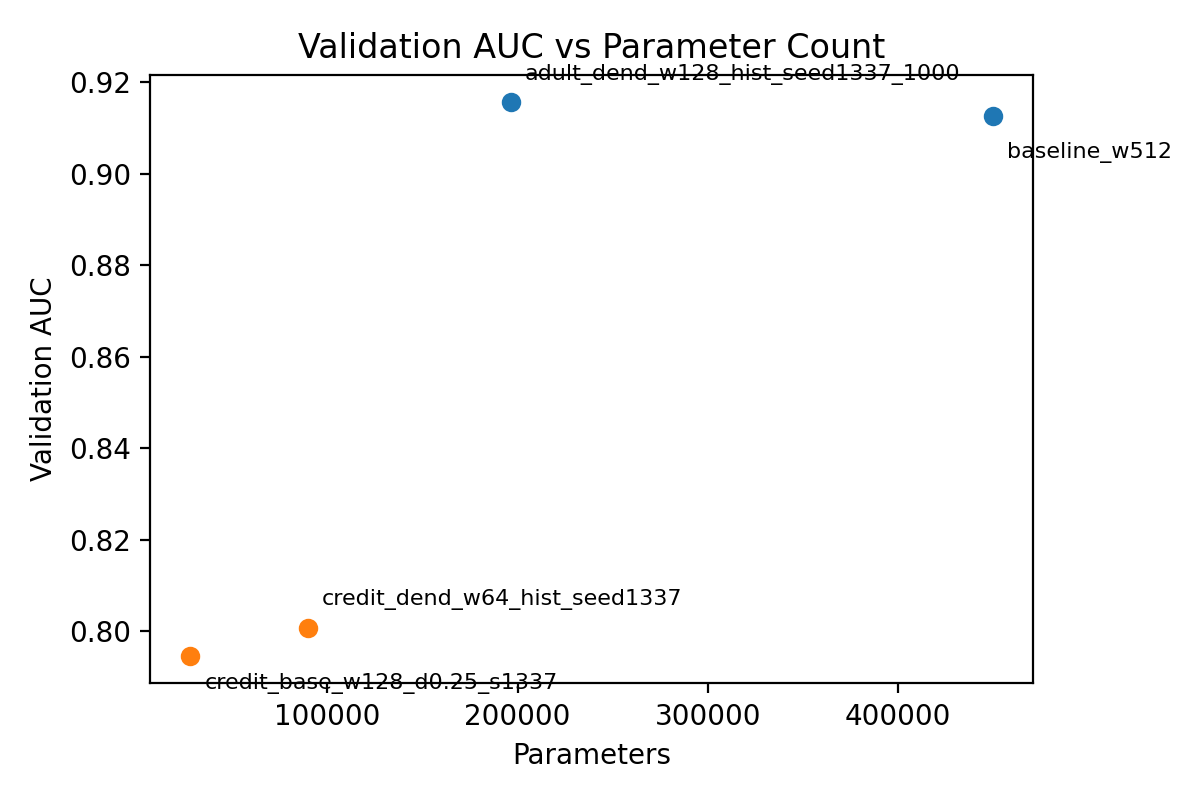
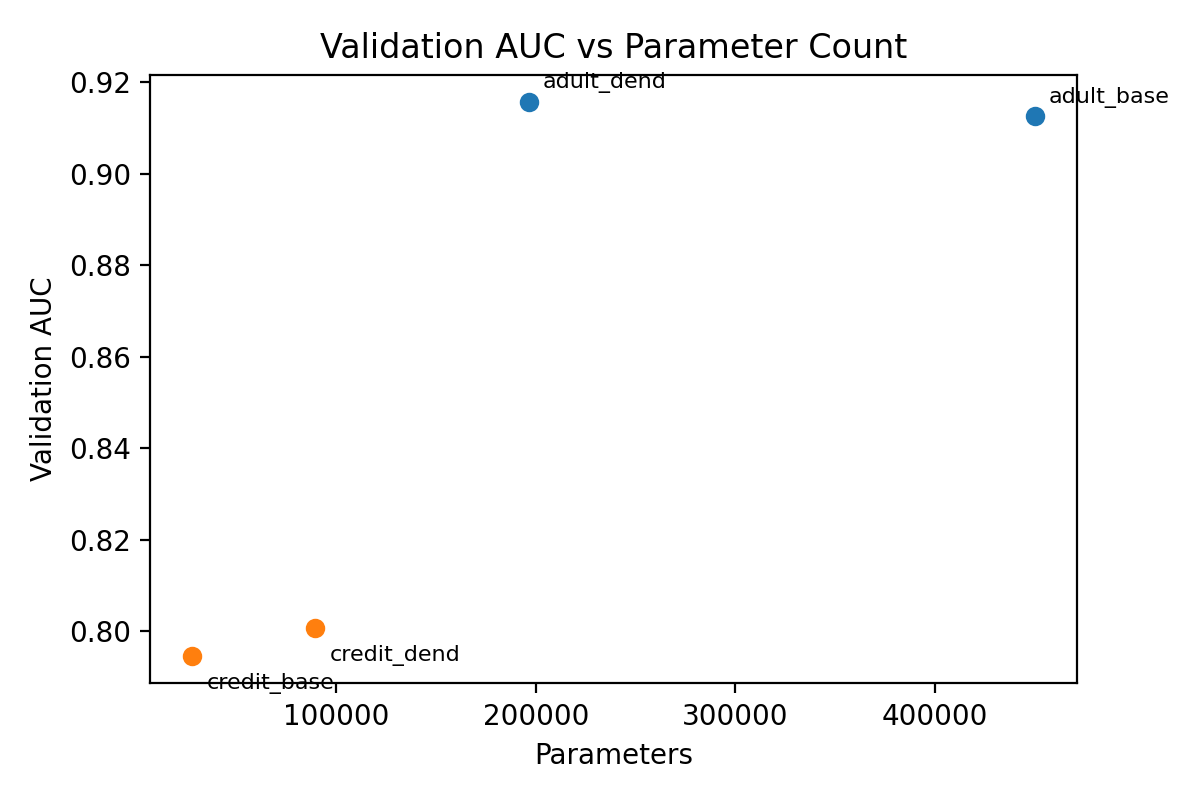
Shorten scatter labels

diff --git a/Examples/baseExamples/adult_credit_dendrites/train.py b/Examples/baseExamples/adult_credit_dendrites/train.py
@@ -686,6 +686,13 @@ def update_quality_plot(csv_path: Path, output_path: Path) -> None:
         return
 
     plt.figure(figsize=(6, 4))
+    label_map = {
+        "baseline_w512": "adult_base",
+        "adult_dend_w128_hist_seed1337_1000": "adult_dend",
+        "credit_base_w128_d0.25_s1337": "credit_base",
+        "credit_dend_w64_hist_seed1337": "credit_dend",
+    }
+
     for row in best_rows:
         try:
             params = float(row["params"])
@@ -693,17 +700,11 @@ def update_quality_plot(csv_path: Path, output_path: Path) -> None:
         except (KeyError, ValueError):
             continue
         dataset = row["dataset"]
-        label = row.get("notes") or row.get("model_id") or "run"
+        label_key = row.get("notes") or row.get("model_id")
+        label = label_map.get(label_key, label_key or "run")
         plt.scatter(params, auc, c="tab:blue" if dataset == "adult" else "tab:orange")
 
-        if "baseline_w512" in label:
-            offset = (5, -15)
-        elif "adult_dend" in label:
-            offset = (5, 8)
-        elif "credit_base" in label:
-            offset = (5, -12)
-        else:
-            offset = (5, 8)
+        offset = (5, 5) if dataset == "adult" else (5, -12)
 
         plt.annotate(
             label, (params, auc), textcoords="offset points", xytext=offset, fontsize=8
